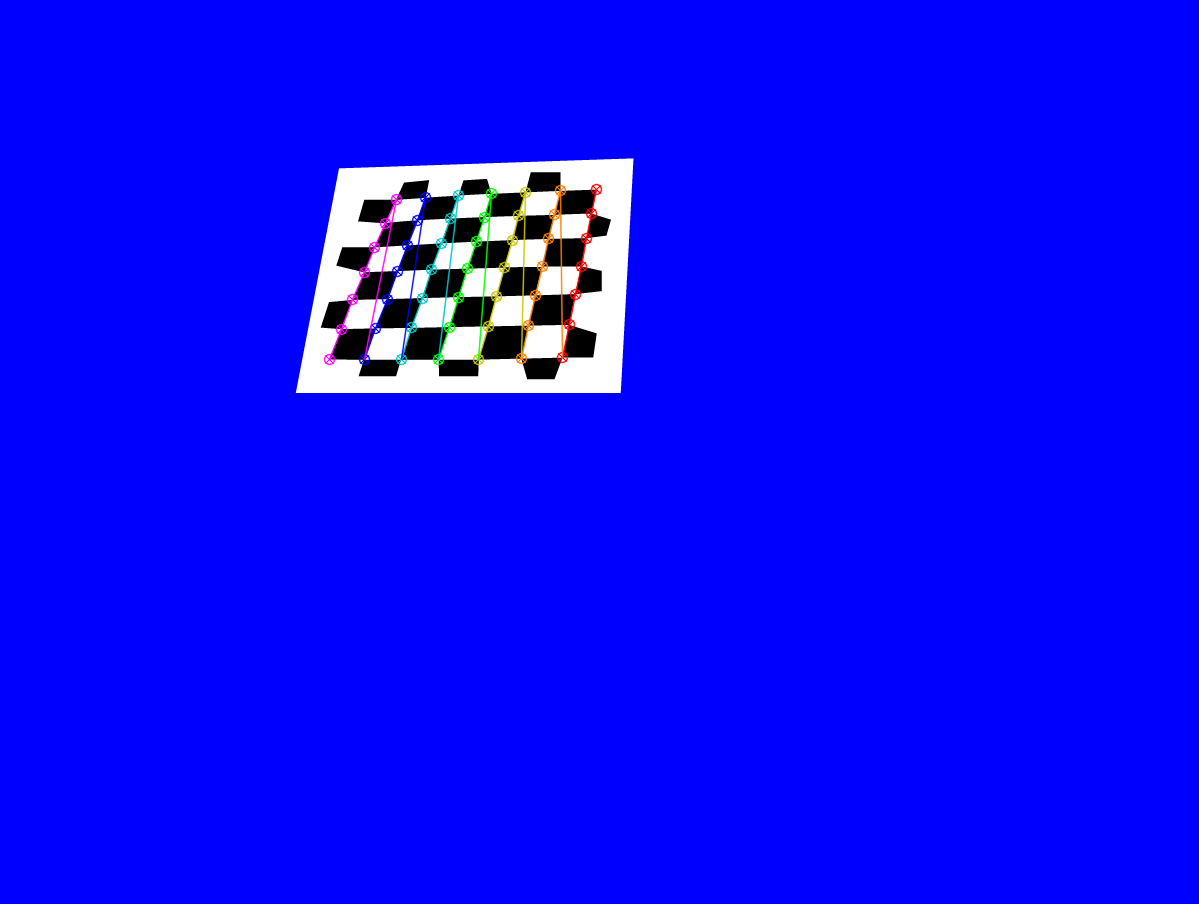
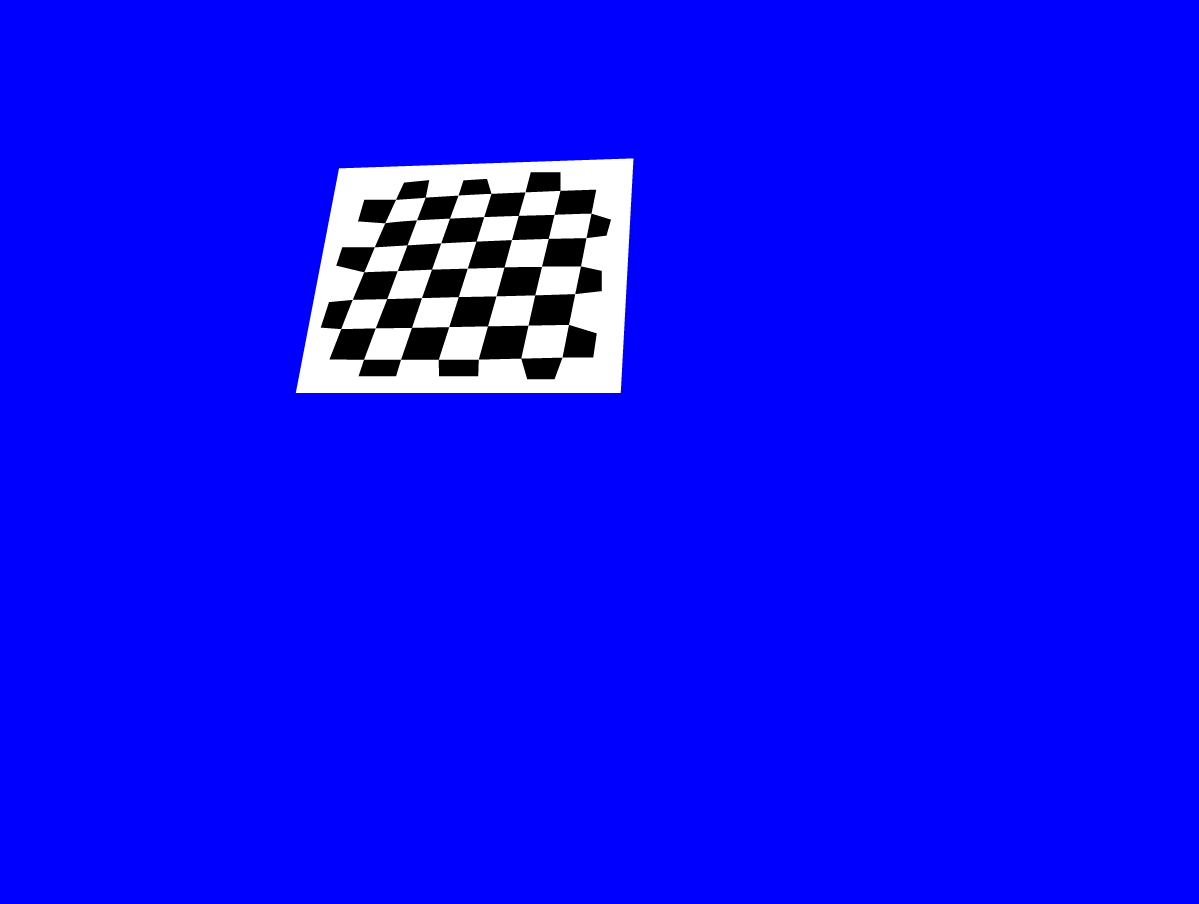
undistort image with small set of calibration images

Changed region(s): [[0.2777, 0.1858, 0.4937, 0.4027]]

diff --git a/src/calibrator.py b/src/calibrator.py
@@ -24,27 +24,48 @@ successCount = 0
 for fname in images:
 	img = cv2.imread(fname)
 	gray = cv2.cvtColor(img, cv2.COLOR_BGR2GRAY)
-
-	# circles
-	ret, corners = cv2.findChessboardCorners(gray, (7,7), None)
+	success, corners = cv2.findChessboardCorners(gray, (7,7), None)
 
 	# If found, add object points, image points (after refining them)
-	if ret == True:
-		print("Success! Found grid lines and writing to {}".format(fname))
-		objpoints.append(objp)
+	if success :
+		print("Success! Found grid lines in {}".format(fname))
 
-		corners2 = cv2.cornerSubPix(gray,corners,(11,11),(-1,-1),criteria)
+		objpoints.append(objp)
+		corners2 = cv2.cornerSubPix(gray, corners, (11,11), (-1,-1), criteria)
 		imgpoints.append(corners2)
 
 		# Draw and display the corners
-		img = cv2.drawChessboardCorners(img, (7,7), corners2,ret)
+		#img = cv2.drawChessboardCorners(img, (7,7), corners2, ret)
 		#cv2.imshow('img',img)
-		cv2.imwrite(fname, img)
-		cv2.waitKey(5000)
+		#cv2.imwrite(fname, img)
+		#cv2.waitKey(5000)
 
 		successCount += 1
 
-print("Successfully processed {} of {} images".format(successCount, len(images)))
-        
+print("Successfully found grids {} of {} images".format(successCount, len(images)))
 
-#cv2.destroyAllWindows()
+ret, mtx, dist, rvecs, tvecs = cv2.calibrateCamera(objpoints, imgpoints, gray.shape[::-1], None,None)
+        
+#Undistort image
+print("Beginning undistortion process.")
+
+distImagePath = "../temp/test_csv/Ellesmere_IR_flight01_1000ft_000055.jpg"
+distImage = cv2.imread(distImagePath)
+
+h,w = distImage.shape[:2]
+print("{} {}".format(h,w))
+
+newCameraMtx, roi = cv2.getOptimalNewCameraMatrix(mtx,dist,(w,h),0,(w,h))
+
+#TODO Write out the new camera matrix to a txt file to reuse for future runs
+#	There is no reason to run this every time once we have a correct calibration
+
+# undistort
+undistortedImage = cv2.undistort(distImage, mtx, dist, None, newCameraMtx)
+
+# crop the image
+#print(roi)
+#x,y,w,h = roi
+#undistortedImage = undistortedImage[y:y+h, x:x+w]
+
+cv2.imwrite("holy_sheet_it_works.jpg", undistortedImage)
